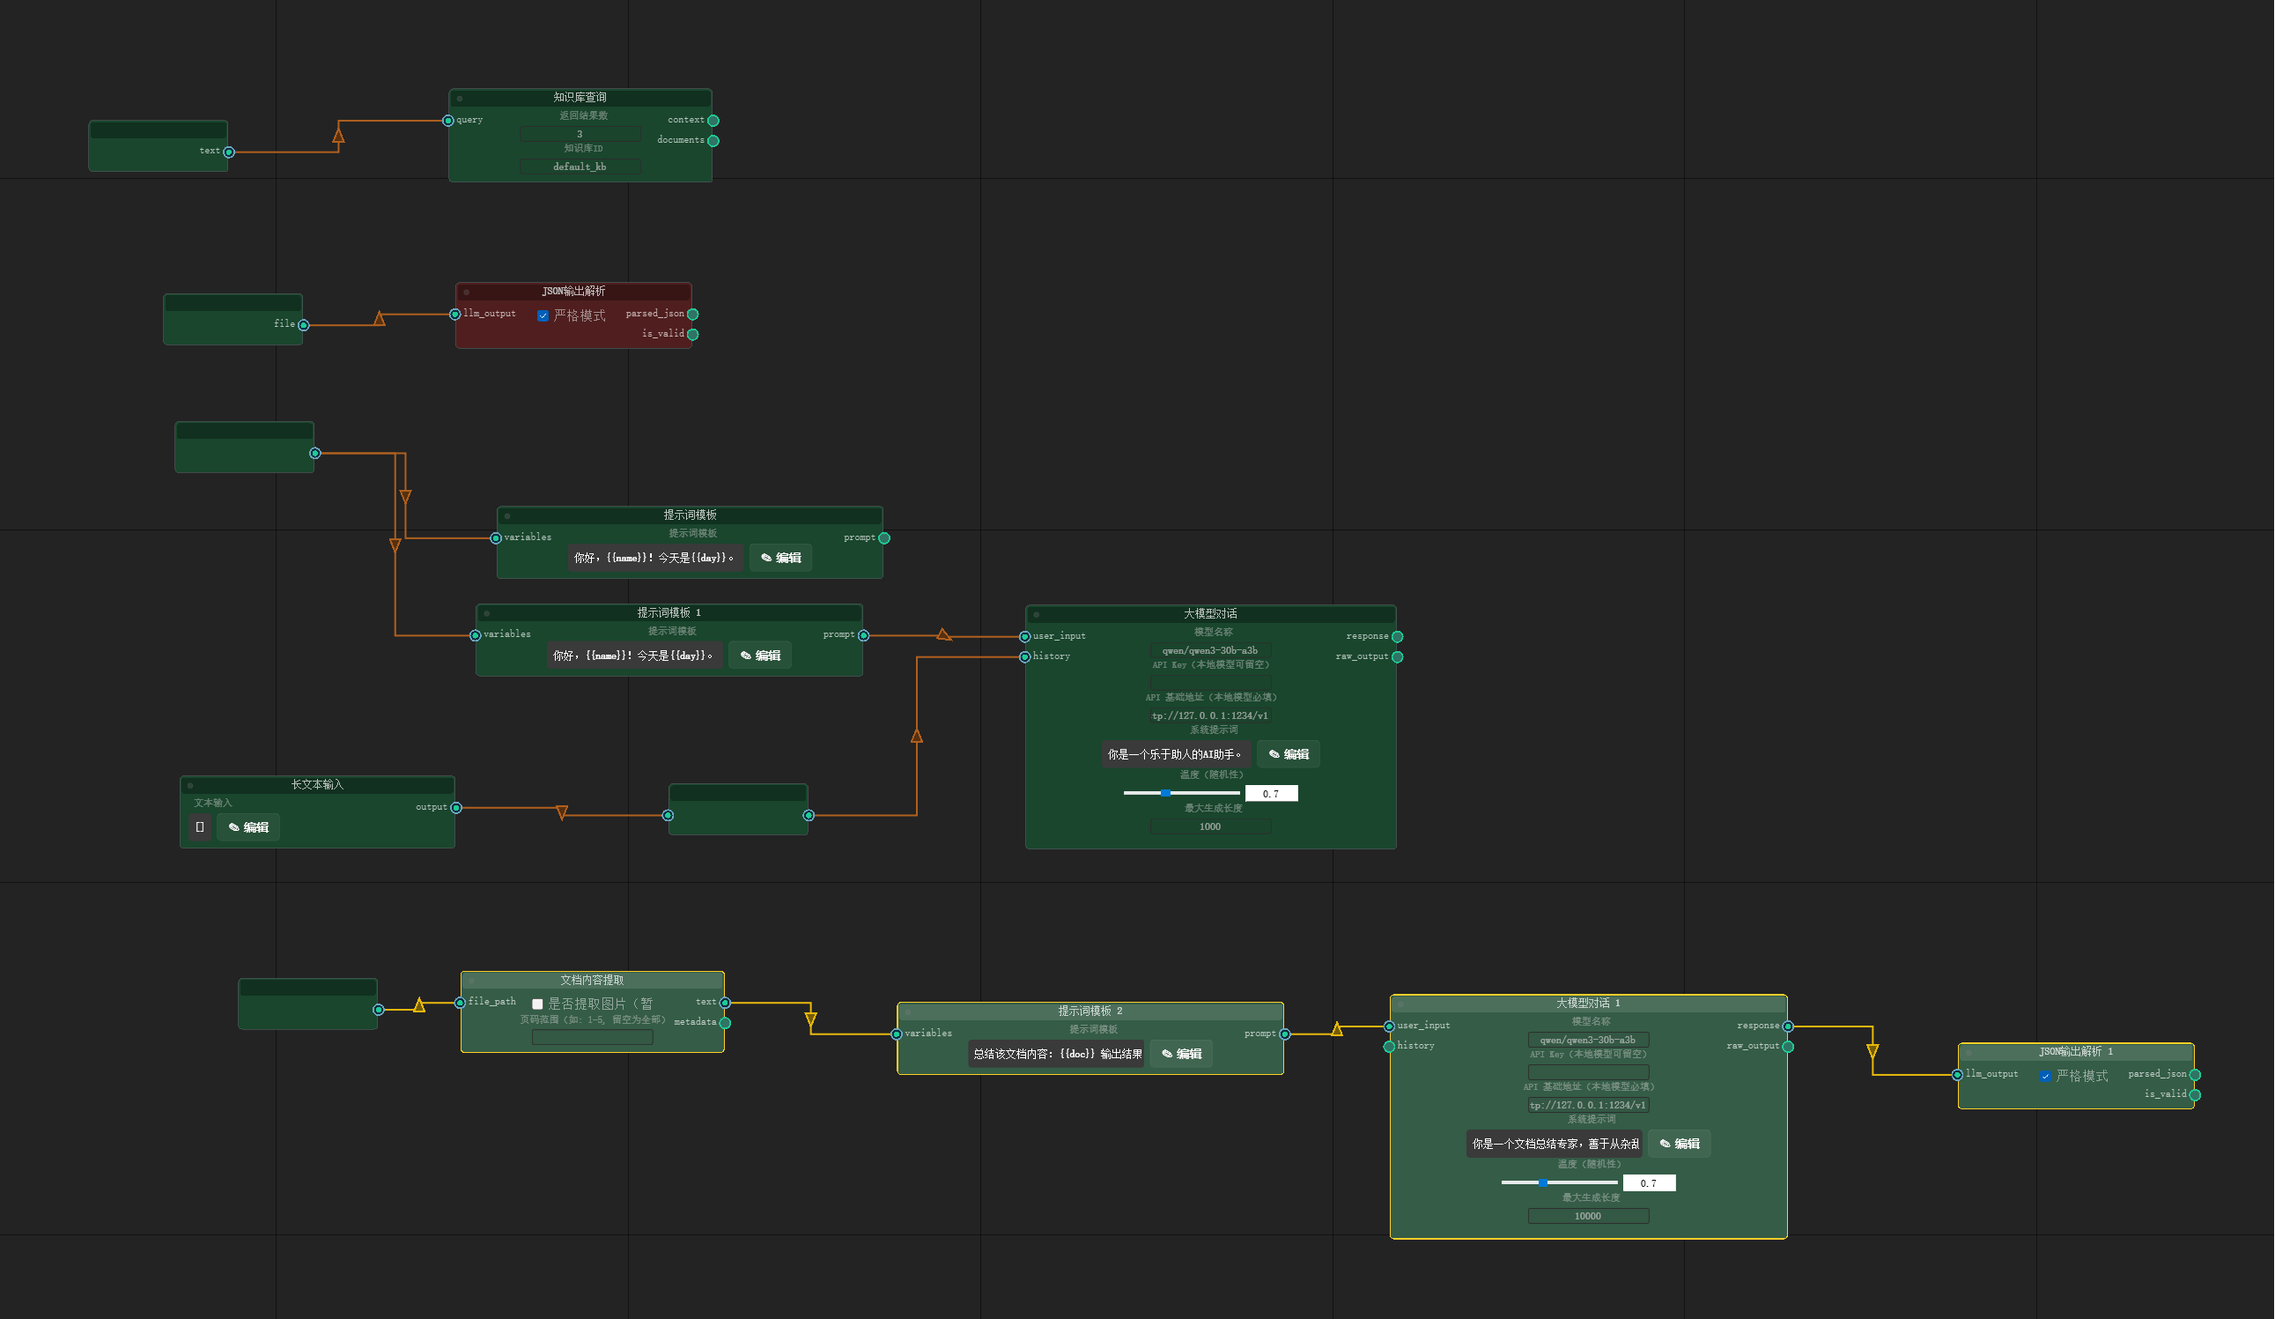
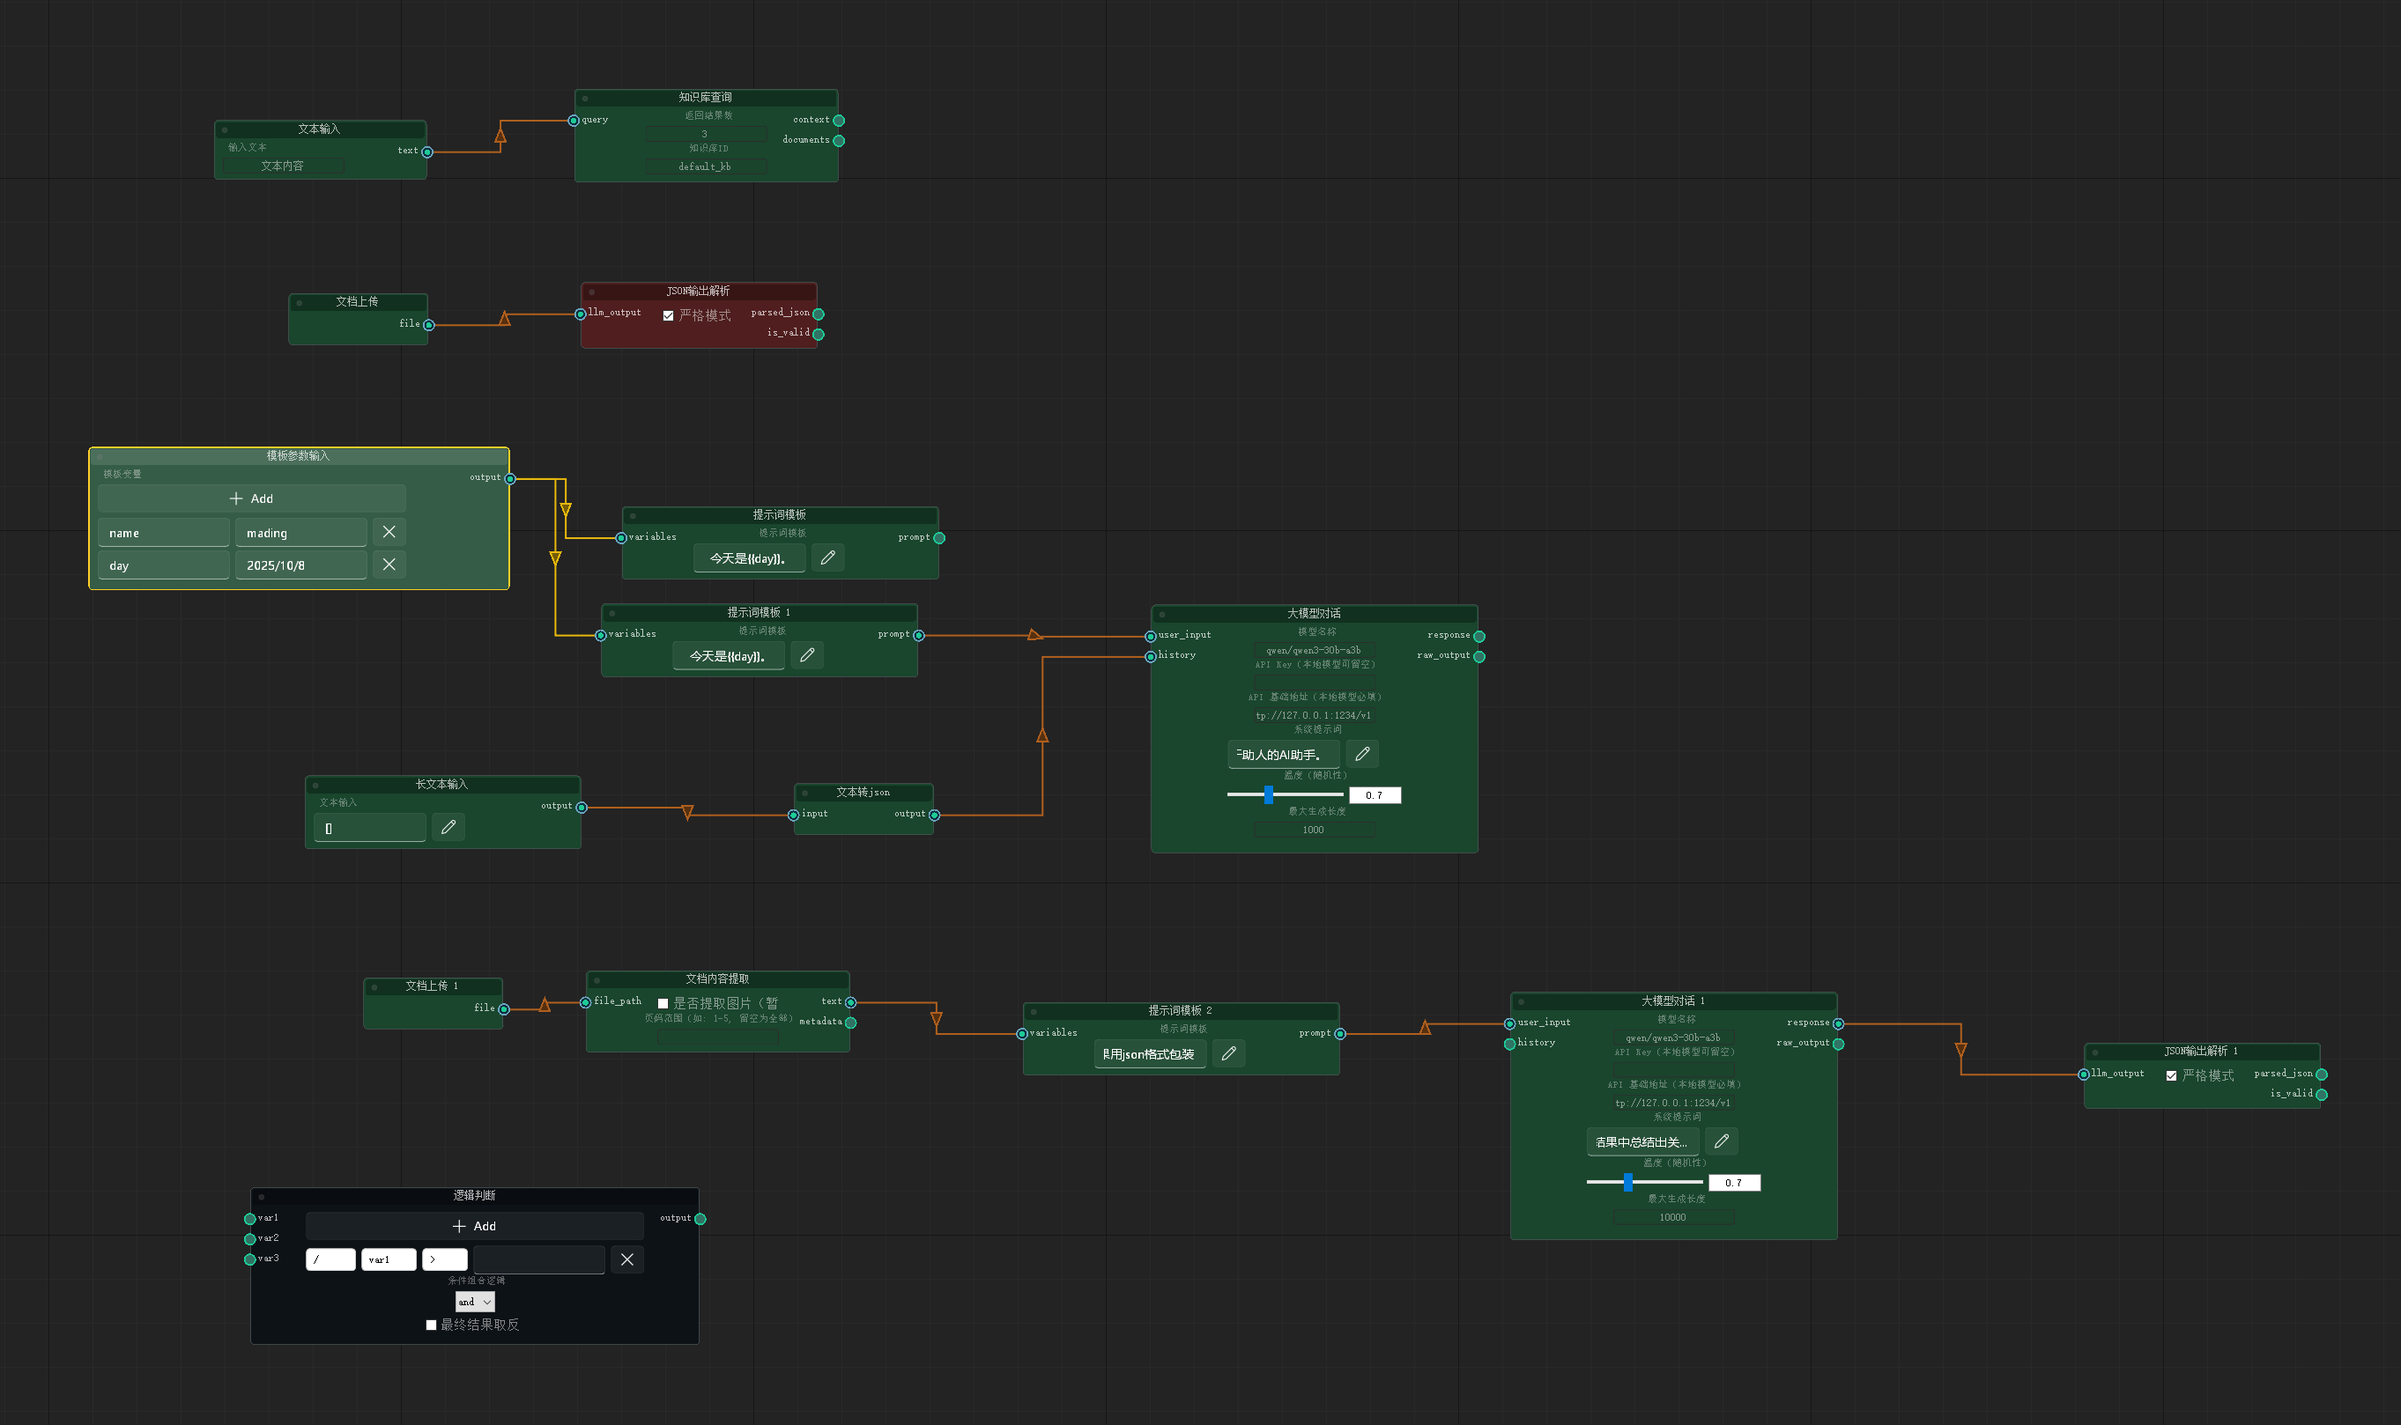
feat(大模型组件): 增强大模型对话功能并优化组件配置
- 新增大模型对话历史记录输出端口
- 更新默认模型名称和API基础地址配置
- 新增模型配置动态表单参数支持
- 优化长文本编辑器界面和交互
- 调整组件日志消息框高度比例
- 修复动态表单控件父窗口引用问题
- 升级依赖包管理及版本控制策略
- 新增JSON文本包装组件
- 优化工作流节点布局与连接关系

diff --git a/app/widgets/dynamic_form_widget.py b/app/widgets/dynamic_form_widget.py
@@ -1,8 +1,11 @@
 # -*- coding: utf-8 -*-
 from NodeGraphQt import NodeBaseWidget
+from PyQt5.QtWidgets import QComboBox
 from Qt import QtWidgets, QtCore
+from qfluentwidgets import LineEdit, ComboBox, PushButton, FluentIcon, ToolButton
 
 from app.components.base import PropertyType
+from app.widgets.longtext_dialog import LongTextWidget
 
 
 class FormFieldWidget(QtWidgets.QWidget):
@@ -20,20 +23,43 @@ class FormFieldWidget(QtWidgets.QWidget):
 
         for key, defn in schema.items():
             if defn["type"] == PropertyType.TEXT.name:
-                widget = QtWidgets.QLineEdit()
+                widget = LineEdit()
+                widget.setFixedWidth(150)
                 widget.textChanged.connect(self.changed)
                 self.fields[key] = widget
                 layout.addWidget(widget)
+            elif defn["type"] == PropertyType.LONGTEXT.name:
+                widget = LongTextWidget(parent)
+                widget.valueChanged.connect(self.changed)
+                self.fields[key] = widget
+                layout.addWidget(widget)
             elif defn["type"] == PropertyType.CHOICE.name:
-                widget = QtWidgets.QComboBox()
+                widget = QComboBox(parent)
+                widget.setStyleSheet("""
+                QComboBox {
+                    border: 1px solid #d0d0d0;
+                    border-radius: 5px;
+                    padding: 4px 8px;
+                    background: transparent;
+                    color: white;
+                }
+                QComboBox::drop-down {
+                    width: 30px;
+                    border: none;
+                    background: transparent;
+                    color: white;
+                }
+                QComboBox QAbstractItemView {
+                    border: 1px solid #d0d0d0;
+                    selection-background-color: #e0e0e0;
+                }
+                """)
                 widget.addItems(defn.get("choices", []))
-                widget.currentTextChanged.connect(self.changed)
+                widget.currentIndexChanged.connect(self.changed)
                 self.fields[key] = widget
                 layout.addWidget(widget)
 
-        btn_remove = QtWidgets.QPushButton("×")
-        btn_remove.setFixedSize(20, 20)
-        btn_remove.setStyleSheet("background: #ff6b6b; color: white; border-radius: 10px;")
+        btn_remove = ToolButton(FluentIcon.CLOSE)
         btn_remove.clicked.connect(lambda: self.removed.emit(self))
         layout.addWidget(btn_remove)
 
@@ -55,10 +81,11 @@ class DynamicFormWidget(QtWidgets.QWidget):
 
     def __init__(self, schema, parent=None):
         super().__init__(parent)
+        self.parent = parent
         self.schema = schema
         self.field_widgets = []
 
-        self.btn_add = QtWidgets.QPushButton("➕ Add")
+        self.btn_add = PushButton("Add", icon=FluentIcon.ADD)
         self.container = QtWidgets.QVBoxLayout()
         self.container.setSpacing(4)
 
@@ -70,7 +97,7 @@ class DynamicFormWidget(QtWidgets.QWidget):
         self.btn_add.clicked.connect(self.add_field)
 
     def add_field(self, data=None):
-        field = FormFieldWidget(self.schema)
+        field = FormFieldWidget(self.schema, parent=self.parent)
         if data:
             field.set_data(data)
         field.removed.connect(self.remove_field)
@@ -99,11 +126,11 @@ class DynamicFormWidget(QtWidgets.QWidget):
 
 
 class DynamicFormWidgetWrapper(NodeBaseWidget):
-    def __init__(self, parent=None, name="", label="", schema=None):
+    def __init__(self, parent=None, name="", label="", schema=None, window=None):
         super().__init__(parent)
         self.set_name(name)
         self.set_label(label)
-        widget = DynamicFormWidget(schema or {})
+        widget = DynamicFormWidget(schema or {}, parent=window)
         self.set_custom_widget(widget)
         widget.sizeHintChanged.connect(self._update_node)
 

diff --git a/app/components/大模型组件/69e6607e-fce9-495e-adde-bc5d7f8d27d1.py b/app/components/大模型组件/69e6607e-fce9-495e-adde-bc5d7f8d27d1.py
@@ -27,12 +27,13 @@ class Component(BaseComponent):
     outputs = [
         PortDefinition(name="response", label="模型回复", type=ArgumentType.TEXT),
         PortDefinition(name="raw_output", label="原始响应", type=ArgumentType.JSON),
+        PortDefinition(name="history", label="对话历史", type=ArgumentType.JSON),
     ]
 
     properties = {
         "model": PropertyDefinition(
             type=PropertyType.TEXT,
-            default="qwen/qwen3-30b-a3b",  # 示例：Ollama 模型名
+            default="qwen3-30b-a3b",
             label="模型名称",
         ),
         "api_key": PropertyDefinition(
@@ -42,12 +43,12 @@ class Component(BaseComponent):
         ),
         "base_url": PropertyDefinition(
             type=PropertyType.TEXT,
-            default="http://127.0.0.1:1234/v1",  # Ollama 默认地址
+            default="http://168.168.10.110:20000",
             label="API 基础地址（本地模型必填）",
         ),
         "system_prompt": PropertyDefinition(
             type=PropertyType.LONGTEXT,
-            default="你是一个乐于助人的AI助手。",
+            default="""你是一个乐于助人的AI助手。""",
             label="系统提示词",
         ),
         "temperature": PropertyDefinition(
@@ -62,6 +63,22 @@ class Component(BaseComponent):
             type=PropertyType.INT,
             default=1000,
             label="最大生成长度",
+        ),
+        "model_params": PropertyDefinition(
+            type=PropertyType.DYNAMICFORM,
+            label="模型配置",
+            schema={
+                "key": PropertyDefinition(
+                    type=PropertyType.TEXT,
+                    default="",
+                    label="属性1",
+                ),
+                "value": PropertyDefinition(
+                    type=PropertyType.TEXT,
+                    default="",
+                    label="属性2",
+                ),
+            }
         ),
     }
 
@@ -111,22 +128,36 @@ class Component(BaseComponent):
                     "raw_output": {"error": "Missing API Key or base_url"}
                 }
             client = OpenAI(api_key=api_key)
+            
+        # 解析额外模型配置信息
+        extra_body={}
+        for item in params.get("model_params"):
+            extra_body[item["key"]] = {"type": item["value"]}
 
         try:
             response = client.chat.completions.create(
+                extra_body=extra_body,
                 model=model,
                 messages=messages,
                 temperature=temperature,
                 max_tokens=max_tokens,
             )
+            self.logger.info(response)
 
             reply = response.choices[0].message.content.strip()
             raw_data = response.model_dump()
+            history.extend(
+                [
+                    {"role": "user", "content": user_input},
+                    {"role": "assistant", "content": reply}
+                ]
+            )
 
             self.logger.info(f"模型回复: {reply[:100]}...")
             return {
                 "response": reply,
-                "raw_output": raw_data
+                "raw_output": raw_data,
+                "history": history
             }
 
         except Exception as e:

diff --git a/app/widgets/longtext_dialog.py b/app/widgets/longtext_dialog.py
@@ -1,33 +1,18 @@
 # -*- coding: utf-8 -*-
 from NodeGraphQt import NodeBaseWidget
 from Qt import QtWidgets, QtCore
-from qfluentwidgets import MessageBoxBase, SubtitleLabel, TextEdit, PushButton
+from qfluentwidgets import MessageBoxBase, SubtitleLabel, TextEdit, PushButton, FluentIcon, ToolButton, LineEdit
 
 
 class LongTextEditorDialog(MessageBoxBase):
     def __init__(self, content: str = "", parent=None):
-        super().__init__()
+        super().__init__(parent)
         self.titleLabel = SubtitleLabel("编辑长文本")
         self.text_edit = TextEdit()
         self.text_edit.setPlainText(content)
-        self.text_edit.setMinimumSize(500, 300)  # 足够大的编辑区域
+        self.text_edit.setMinimumSize(700, 500)  # 足够大的编辑区域
 
         self.viewLayout.addWidget(self.titleLabel)
-        self.viewLayout.addWidget(self.text_edit)
-
-        self.yesButton.setText("保存")
-        self.cancelButton.setText("取消")
-
-
-class LongTextEditorDialog(MessageBoxBase):
-    """长文本编辑弹窗"""
-    def __init__(self, content: str = "", parent=None):
-        super().__init__(parent)
-        self.setWindowTitle("编辑长文本")
-        self.text_edit = TextEdit()
-        self.text_edit.setPlainText(content)
-        self.text_edit.setMinimumSize(600, 400)
-
         self.viewLayout.addWidget(self.text_edit)
 
         self.yesButton.setText("保存")
@@ -43,13 +28,11 @@ class LongTextWidget(QtWidgets.QWidget):
         self.parent = parent
         self._text = default_text
 
-        self.summary_label = QtWidgets.QLabel()
-        self.summary_label.setStyleSheet("color: #ffffff; background: #3a3a3a; padding: 4px; border-radius: 4px;")
-        self.summary_label.setWordWrap(False)
-        self.summary_label.setMaximumWidth(200)
+        self.summary_label = LineEdit()
+        self.summary_label.setMaximumWidth(300)
         self.summary_label.setText(self._get_summary())
 
-        self.edit_btn = PushButton("✎ 编辑")
+        self.edit_btn = ToolButton(FluentIcon.EDIT)
         self.edit_btn.clicked.connect(self._open_editor)
 
         layout = QtWidgets.QHBoxLayout(self)
@@ -79,6 +62,9 @@ class LongTextWidget(QtWidgets.QWidget):
     def set_value(self, text):
         self._text = text or ""
         self.summary_label.setText(self._get_summary())
+
+    def currentText(self):
+        return self._text
 
 
 class LongTextWidgetWrapper(NodeBaseWidget):

diff --git a/app/components/大模型组件/ff78d3b5-aeb9-4d8a-b247-8d4041d2cf10.py b/app/components/大模型组件/ff78d3b5-aeb9-4d8a-b247-8d4041d2cf10.py
@@ -1,0 +1,48 @@
+# -*- coding: utf-8 -*-
+import importlib.util
+import pathlib
+base_path = pathlib.Path(__file__).parent.parent / "base.py"
+spec = importlib.util.spec_from_file_location("base", str(base_path))
+base_module = importlib.util.module_from_spec(spec)
+spec.loader.exec_module(base_module)
+
+# 导入所需项目
+BaseComponent = base_module.BaseComponent
+PortDefinition = base_module.PortDefinition
+PropertyDefinition = base_module.PropertyDefinition
+PropertyType = base_module.PropertyType
+ArgumentType = base_module.ArgumentType
+
+
+class Component(BaseComponent):
+    name = "JSON文本包装"
+    category = "大模型组件"
+    description = ""
+    requirements = ""
+    inputs = [
+        PortDefinition(name="input1", label="输入1", type=ArgumentType.TEXT),
+    ]
+    outputs = [
+        PortDefinition(name="output1", label="输出1", type=ArgumentType.JSON),
+    ]
+    properties = {
+        "prop_0": PropertyDefinition(
+            type=PropertyType.TEXT,
+            default="text",
+            label="属性1",
+        ),
+    }
+
+    def run(self, params, inputs=None):
+        """
+        params: 节点属性（来自UI）
+        inputs: 上游输入（key=输入端口名）
+        return: 输出数据（key=输出端口名）
+        """
+        # 在这里编写你的组件逻辑
+        input = inputs.get("input1")
+        return {
+            "output1": {
+                params.get("prop_0"): input
+            }
+        }

diff --git a/app/nodes/create_dynamic_node.py b/app/nodes/create_dynamic_node.py
@@ -98,7 +98,8 @@ def create_node_class(component_class, full_path, file_path, parent_window=None)
                         parent=self.view,
                         name=prop_name,
                         label=label,
-                        schema=processed_schema
+                        schema=processed_schema,
+                        window=parent_window
                     )
                     self.add_custom_widget(widget, tab='Properties')
 
@@ -175,7 +176,7 @@ def create_node_class(component_class, full_path, file_path, parent_window=None)
         def show_logs(self):
             """显示节点日志"""
             log_content = self.get_logs()
-            w = LogMessageBox(log_content, self.view.viewer())
+            w = LogMessageBox(log_content, parent_window)
             w.exec()
 
         def set_output_value(self, port_name, value):

diff --git a/app/widgets/component_log_message_box.py b/app/widgets/component_log_message_box.py
@@ -41,10 +41,10 @@ class LogMessageBox(MessageBoxBase):
 
         # 设置最小高度（屏幕高度的70%）
         if parent and hasattr(parent, 'window_height'):
-            min_height = int(0.7 * parent.window_height)
+            min_height = int(0.6 * parent.window_height)
         else:
             try:
-                min_height = int(0.7 * self.screen().availableGeometry().height())
+                min_height = int(0.6 * self.screen().availableGeometry().height())
             except:
                 min_height = 500  # 默认高度
 

diff --git a/app/components/测试组件/e27c19f1-2e79-4fd1-ad18-10d08ca14457.py b/app/components/测试组件/e27c19f1-2e79-4fd1-ad18-10d08ca14457.py
@@ -40,8 +40,9 @@ class Component(BaseComponent):
                     type=PropertyType.CHOICE,
                     default=" ",
                     label="选择变量",
-                    choices=[" ", "not"]
-                ),"变量": PropertyDefinition(
+                    choices=["/", "not"]
+                ),
+                "变量": PropertyDefinition(
                     type=PropertyType.CHOICE,
                     default="var1",
                     label="选择变量",

diff --git a/app/components/大模型组件/dadeaad2-d8bb-42d9-8907-590ea2324278.py b/app/components/大模型组件/dadeaad2-d8bb-42d9-8907-590ea2324278.py
@@ -18,7 +18,7 @@ class Component(BaseComponent):
     name = "文档内容提取"
     category = "大模型组件"
     description = ""
-    requirements = "docx,pandas,pdfplumber,pptx"
+    requirements = "python-docx,pandas,pdfplumber,pptx,openpyxl,exceptions"
 
     inputs = [
         PortDefinition(name="file_path", label="文档路径", type=ArgumentType.UPLOAD),

diff --git a/app/interfaces/component_developer.py b/app/interfaces/component_developer.py
@@ -56,6 +56,9 @@ class ComponentDeveloperWidget(QWidget):
         # Markdown 渲染
         'markdown': 'Markdown',  # 包名首字母大写
 
+        # 文档解析
+        'docx': 'python-docx',
+
         # Faker 数据生成
         'faker': 'Faker',  # 包名大写
 
